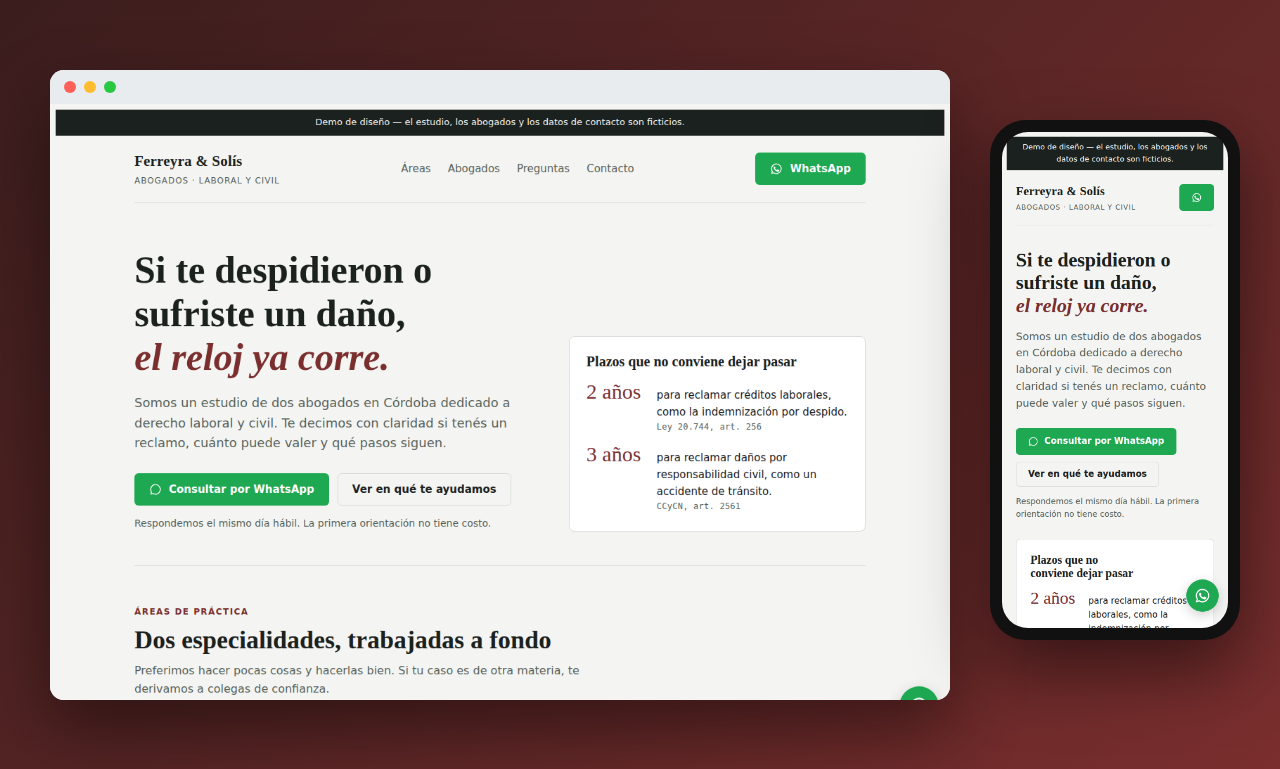
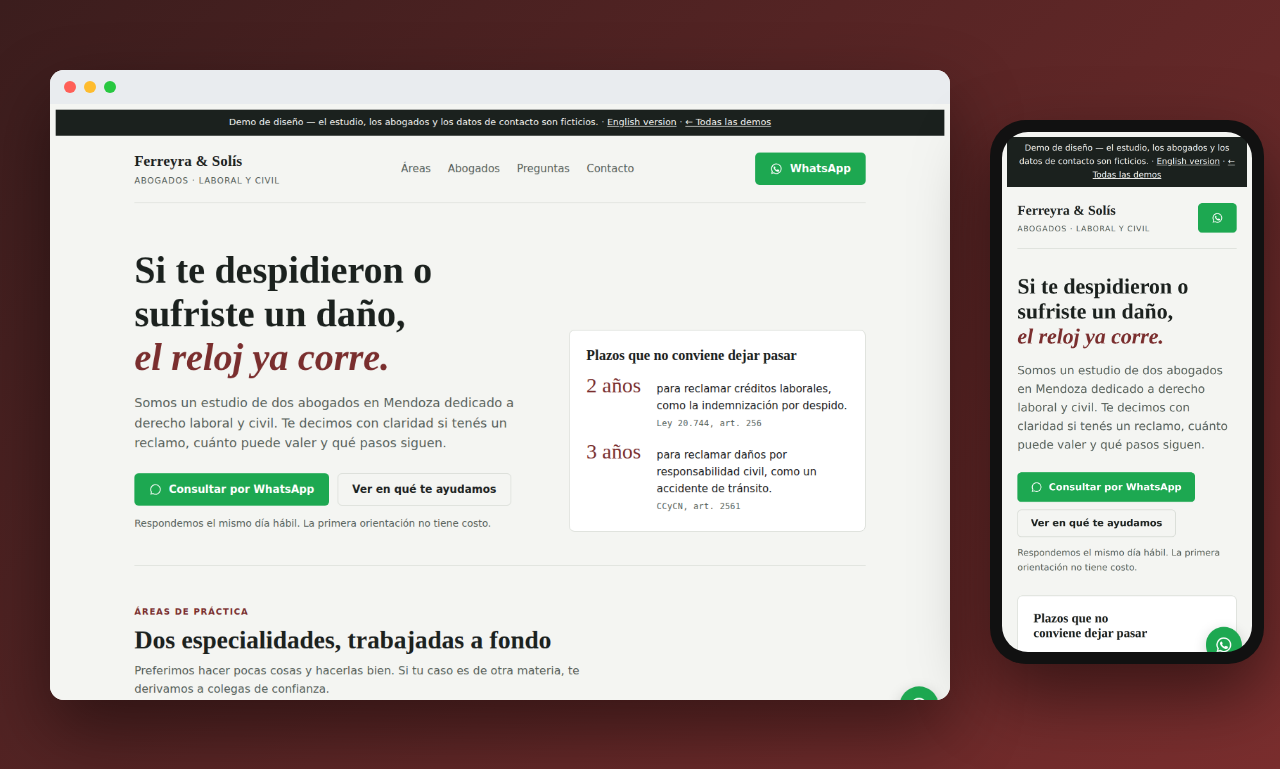
Demos ambientadas en Mendoza
Direcciones, barrios y característica telefónica (261) de Mendoza en
las landings de rubros y en la del estudio jurídico; miniaturas
regeneradas.

Claude-Session: https://claude.ai/code/session_01RYrubhUEBfZcv8MUbAGiQ9

diff --git a/abogados/index.html b/abogados/index.html
@@ -231,7 +231,7 @@ footer { padding-block: 32px 96px; border-top: 1px solid var(--line); font-size:
     <section class="hero">
       <div>
         <h1>Si te despidieron o sufriste un daño, <em>el reloj ya corre.</em></h1>
-        <p class="lede">Somos un estudio de dos abogados en Córdoba dedicado a derecho laboral y civil. Te decimos con claridad si tenés un reclamo, cuánto puede valer y qué pasos siguen.</p>
+        <p class="lede">Somos un estudio de dos abogados en Mendoza dedicado a derecho laboral y civil. Te decimos con claridad si tenés un reclamo, cuánto puede valer y qué pasos siguen.</p>
         <div class="ctas">
           <a class="btn btn-wa" href="#contacto" data-event="whatsapp_click">
             <svg viewBox="0 0 24 24" fill="currentColor" aria-hidden="true"><path d="M12 2a10 10 0 0 0-8.6 15.1L2 22l5-1.3A10 10 0 1 0 12 2Zm0 18.2a8.2 8.2 0 0 1-4.2-1.2l-.3-.2-3 .8.8-2.9-.2-.3A8.2 8.2 0 1 1 12 20.2Z"/></svg>
@@ -295,7 +295,7 @@ footer { padding-block: 32px 96px; border-top: 1px solid var(--line); font-size:
             <h3>Dra. Lucía Ferreyra</h3>
             <p class="role">Derecho laboral</p>
             <p class="bio">Doce años representando a trabajadores en despidos, accidentes y reclamos contra ART.</p>
-            <span class="cite">Mat. prof. 1-00000 · Colegio de Abogados de Córdoba</span>
+            <span class="cite">Mat. prof. 1-00000 · Colegio de Abogados de Mendoza</span>
           </div>
         </article>
         <article class="lawyer">
@@ -304,7 +304,7 @@ footer { padding-block: 32px 96px; border-top: 1px solid var(--line); font-size:
             <h3>Dr. Martín Solís</h3>
             <p class="role">Derecho civil</p>
             <p class="bio">Sucesiones, daños y contratos. Antes de litigar, busca un acuerdo que ahorre tiempo y costos.</p>
-            <span class="cite">Mat. prof. 1-00000 · Colegio de Abogados de Córdoba</span>
+            <span class="cite">Mat. prof. 1-00000 · Colegio de Abogados de Mendoza</span>
           </div>
         </article>
       </div>
@@ -337,7 +337,7 @@ footer { padding-block: 32px 96px; border-top: 1px solid var(--line); font-size:
           <p>No firmes nada que no entiendas y guardá recibos de sueldo, telegramas y mensajes. Escribinos y te decimos cómo responder.</p>
         </details>
         <details>
-          <summary>¿Atienden casos fuera de Córdoba?</summary>
+          <summary>¿Atienden casos fuera de Mendoza?</summary>
           <p>Hacemos consultas en todo el país por videollamada. Para juicios fuera de la provincia trabajamos con estudios asociados.</p>
         </details>
       </div>
@@ -357,8 +357,8 @@ footer { padding-block: 32px 96px; border-top: 1px solid var(--line); font-size:
           </div>
         </div>
         <dl class="facts">
-          <div><dt>WhatsApp</dt><dd>+54 9 351 000-0000 (ejemplo)</dd></div>
-          <div><dt>Oficina</dt><dd>Av. Ejemplo 123, piso 4 · Córdoba Capital</dd></div>
+          <div><dt>WhatsApp</dt><dd>+54 9 261 000-0000 (ejemplo)</dd></div>
+          <div><dt>Oficina</dt><dd>Av. Ejemplo 123, piso 4 · Ciudad de Mendoza</dd></div>
           <div><dt>Horario</dt><dd>Lunes a viernes, 9 a 18 h</dd></div>
         </dl>
       </div>

diff --git a/veterinaria/index.html b/veterinaria/index.html
@@ -3,7 +3,7 @@
 <meta charset="utf-8">
 <meta name="viewport" content="width=device-width, initial-scale=1">
 <title>Veterinaria Patitas del Parque</title>
-<meta name="description" content="Veterinaria en Córdoba: consultas, vacunas, cirugías y urgencias. Pedí turno por WhatsApp.">
+<meta name="description" content="Veterinaria en Mendoza: consultas, vacunas, cirugías y urgencias. Pedí turno por WhatsApp.">
 <link rel="preconnect" href="https://fonts.googleapis.com">
 <link rel="preconnect" href="https://fonts.gstatic.com" crossorigin>
 <link rel="stylesheet" href="https://fonts.googleapis.com/css2?family=Fraunces:wght@600;700&family=Inter:wght@400;500;600;700&display=swap">
@@ -18,7 +18,7 @@
 
 <div class="wrap">
   <header class="top">
-    <a class="brand" href="#inicio"><span class="logo" aria-hidden="true">🐾</span><span><b>Patitas del Parque</b><small>Veterinaria · Córdoba</small></span></a>
+    <a class="brand" href="#inicio"><span class="logo" aria-hidden="true">🐾</span><span><b>Patitas del Parque</b><small>Veterinaria · Mendoza</small></span></a>
     <nav class="links" aria-label="Secciones"><a href="#servicios">Servicios</a><a href="#vacunas">Vacunas</a><a href="#preguntas">Preguntas</a><a href="#contacto">Contacto</a></nav>
     <a class="btn btn-wa" href="#contacto" aria-label="Escribir por WhatsApp"><svg viewBox="0 0 24 24" fill="currentColor" aria-hidden="true"><path d="M12 2a10 10 0 0 0-8.6 15.1L2 22l5-1.3A10 10 0 1 0 12 2Zm0 18.2a8.2 8.2 0 0 1-4.2-1.2l-.3-.2-3 .8.8-2.9-.2-.3A8.2 8.2 0 1 1 12 20.2Zm4.5-6.1c-.2-.1-1.5-.7-1.7-.8-.2-.1-.4-.1-.6.1l-.8 1c-.1.2-.3.2-.5.1a6.7 6.7 0 0 1-3.3-2.9c-.3-.4.2-.4.7-1.3.1-.2 0-.3 0-.4l-.8-1.8c-.2-.5-.4-.4-.6-.4h-.5a1 1 0 0 0-.7.3 3 3 0 0 0-.9 2.2 5.2 5.2 0 0 0 1.1 2.7 11.8 11.8 0 0 0 4.5 4c1.7.7 2.3.8 3.2.6a2.7 2.7 0 0 0 1.8-1.3 2.2 2.2 0 0 0 .1-1.3c0-.1-.2-.2-.4-.3Z"/></svg><span>WhatsApp</span></a>
   </header>
@@ -56,8 +56,8 @@
           <div class="ctas"><a class="btn btn-wa" href="#contacto"><svg viewBox="0 0 24 24" fill="currentColor" aria-hidden="true"><path d="M12 2a10 10 0 0 0-8.6 15.1L2 22l5-1.3A10 10 0 1 0 12 2Zm0 18.2a8.2 8.2 0 0 1-4.2-1.2l-.3-.2-3 .8.8-2.9-.2-.3A8.2 8.2 0 1 1 12 20.2Zm4.5-6.1c-.2-.1-1.5-.7-1.7-.8-.2-.1-.4-.1-.6.1l-.8 1c-.1.2-.3.2-.5.1a6.7 6.7 0 0 1-3.3-2.9c-.3-.4.2-.4.7-1.3.1-.2 0-.3 0-.4l-.8-1.8c-.2-.5-.4-.4-.6-.4h-.5a1 1 0 0 0-.7.3 3 3 0 0 0-.9 2.2 5.2 5.2 0 0 0 1.1 2.7 11.8 11.8 0 0 0 4.5 4c1.7.7 2.3.8 3.2.6a2.7 2.7 0 0 0 1.8-1.3 2.2 2.2 0 0 0 .1-1.3c0-.1-.2-.2-.4-.3Z"/></svg>Escribir por WhatsApp</a></div>
         </div>
         <dl class="facts">
-          <div><dt>WhatsApp</dt><dd>+54 9 351 000-0000 (ejemplo)</dd></div>
-          <div><dt>Dirección</dt><dd>Av. Ejemplo 1234 · Córdoba Capital</dd></div>
+          <div><dt>WhatsApp</dt><dd>+54 9 261 000-0000 (ejemplo)</dd></div>
+          <div><dt>Dirección</dt><dd>Av. Ejemplo 1234 · Godoy Cruz</dd></div>
           <div><dt>Horario</dt><dd>Lunes a sábado, 9 a 20 h · Urgencias: consultar por WhatsApp</dd></div>
         </dl>
       </div>

diff --git a/estetica/index.html b/estetica/index.html
@@ -3,7 +3,7 @@
 <meta charset="utf-8">
 <meta name="viewport" content="width=device-width, initial-scale=1">
 <title>Centro de Estética Aura</title>
-<meta name="description" content="Centro de estética en Córdoba: tratamientos faciales, corporales y depilación. Packs de sesiones y turnos online.">
+<meta name="description" content="Centro de estética en Mendoza: tratamientos faciales, corporales y depilación. Packs de sesiones y turnos online.">
 <link rel="preconnect" href="https://fonts.googleapis.com">
 <link rel="preconnect" href="https://fonts.gstatic.com" crossorigin>
 <link rel="stylesheet" href="https://fonts.googleapis.com/css2?family=Cormorant+Garamond:wght@600;700&family=Inter:wght@400;500;600;700&display=swap">
@@ -56,8 +56,8 @@
           <div class="ctas"><a class="btn btn-wa" href="#contacto"><svg viewBox="0 0 24 24" fill="currentColor" aria-hidden="true"><path d="M12 2a10 10 0 0 0-8.6 15.1L2 22l5-1.3A10 10 0 1 0 12 2Zm0 18.2a8.2 8.2 0 0 1-4.2-1.2l-.3-.2-3 .8.8-2.9-.2-.3A8.2 8.2 0 1 1 12 20.2Zm4.5-6.1c-.2-.1-1.5-.7-1.7-.8-.2-.1-.4-.1-.6.1l-.8 1c-.1.2-.3.2-.5.1a6.7 6.7 0 0 1-3.3-2.9c-.3-.4.2-.4.7-1.3.1-.2 0-.3 0-.4l-.8-1.8c-.2-.5-.4-.4-.6-.4h-.5a1 1 0 0 0-.7.3 3 3 0 0 0-.9 2.2 5.2 5.2 0 0 0 1.1 2.7 11.8 11.8 0 0 0 4.5 4c1.7.7 2.3.8 3.2.6a2.7 2.7 0 0 0 1.8-1.3 2.2 2.2 0 0 0 .1-1.3c0-.1-.2-.2-.4-.3Z"/></svg>Escribir por WhatsApp</a></div>
         </div>
         <dl class="facts">
-          <div><dt>WhatsApp</dt><dd>+54 9 351 000-0000 (ejemplo)</dd></div>
-          <div><dt>Dirección</dt><dd>Bv. Ejemplo 789 · Cerro de las Rosas</dd></div>
+          <div><dt>WhatsApp</dt><dd>+54 9 261 000-0000 (ejemplo)</dd></div>
+          <div><dt>Dirección</dt><dd>Calle Ejemplo 789 · Chacras de Coria</dd></div>
           <div><dt>Horario</dt><dd>Lunes a viernes 9 a 20 h · Sábados 9 a 14 h</dd></div>
         </dl>
       </div>

diff --git a/consultorio/index.html b/consultorio/index.html
@@ -3,7 +3,7 @@
 <meta charset="utf-8">
 <meta name="viewport" content="width=device-width, initial-scale=1">
 <title>Consultorio Odontológico Dra. Paula Ríos</title>
-<meta name="description" content="Consultorio odontológico en Córdoba. Limpiezas, arreglos, ortodoncia y blanqueamiento. Pedí turno por WhatsApp.">
+<meta name="description" content="Consultorio odontológico en Mendoza. Limpiezas, arreglos, ortodoncia y blanqueamiento. Pedí turno por WhatsApp.">
 <link rel="preconnect" href="https://fonts.googleapis.com">
 <link rel="preconnect" href="https://fonts.gstatic.com" crossorigin>
 <link rel="stylesheet" href="https://fonts.googleapis.com/css2?family=DM+Serif+Display&family=Inter:wght@400;500;600;700&display=swap">
@@ -56,8 +56,8 @@
           <div class="ctas"><a class="btn btn-wa" href="#contacto"><svg viewBox="0 0 24 24" fill="currentColor" aria-hidden="true"><path d="M12 2a10 10 0 0 0-8.6 15.1L2 22l5-1.3A10 10 0 1 0 12 2Zm0 18.2a8.2 8.2 0 0 1-4.2-1.2l-.3-.2-3 .8.8-2.9-.2-.3A8.2 8.2 0 1 1 12 20.2Zm4.5-6.1c-.2-.1-1.5-.7-1.7-.8-.2-.1-.4-.1-.6.1l-.8 1c-.1.2-.3.2-.5.1a6.7 6.7 0 0 1-3.3-2.9c-.3-.4.2-.4.7-1.3.1-.2 0-.3 0-.4l-.8-1.8c-.2-.5-.4-.4-.6-.4h-.5a1 1 0 0 0-.7.3 3 3 0 0 0-.9 2.2 5.2 5.2 0 0 0 1.1 2.7 11.8 11.8 0 0 0 4.5 4c1.7.7 2.3.8 3.2.6a2.7 2.7 0 0 0 1.8-1.3 2.2 2.2 0 0 0 .1-1.3c0-.1-.2-.2-.4-.3Z"/></svg>Escribir por WhatsApp</a></div>
         </div>
         <dl class="facts">
-          <div><dt>WhatsApp</dt><dd>+54 9 351 000-0000 (ejemplo)</dd></div>
-          <div><dt>Dirección</dt><dd>Calle Ejemplo 321, 2.º piso · Centro</dd></div>
+          <div><dt>WhatsApp</dt><dd>+54 9 261 000-0000 (ejemplo)</dd></div>
+          <div><dt>Dirección</dt><dd>Calle Ejemplo 321, 2.º piso · Ciudad de Mendoza</dd></div>
           <div><dt>Horario</dt><dd>Lunes a viernes, 9 a 19 h</dd></div>
         </dl>
       </div>

diff --git a/gimnasio/index.html b/gimnasio/index.html
@@ -3,7 +3,7 @@
 <meta charset="utf-8">
 <meta name="viewport" content="width=device-width, initial-scale=1">
 <title>Gimnasio Fuerza Norte</title>
-<meta name="description" content="Gimnasio en Córdoba: musculación, funcional y clases. Planes, horarios y clase de prueba gratis.">
+<meta name="description" content="Gimnasio en Mendoza: musculación, funcional y clases. Planes, horarios y clase de prueba gratis.">
 <link rel="preconnect" href="https://fonts.googleapis.com">
 <link rel="preconnect" href="https://fonts.gstatic.com" crossorigin>
 <link rel="stylesheet" href="https://fonts.googleapis.com/css2?family=Archivo+Black&family=Inter:wght@400;500;600;700&display=swap">
@@ -56,8 +56,8 @@
           <div class="ctas"><a class="btn btn-wa" href="#contacto"><svg viewBox="0 0 24 24" fill="currentColor" aria-hidden="true"><path d="M12 2a10 10 0 0 0-8.6 15.1L2 22l5-1.3A10 10 0 1 0 12 2Zm0 18.2a8.2 8.2 0 0 1-4.2-1.2l-.3-.2-3 .8.8-2.9-.2-.3A8.2 8.2 0 1 1 12 20.2Zm4.5-6.1c-.2-.1-1.5-.7-1.7-.8-.2-.1-.4-.1-.6.1l-.8 1c-.1.2-.3.2-.5.1a6.7 6.7 0 0 1-3.3-2.9c-.3-.4.2-.4.7-1.3.1-.2 0-.3 0-.4l-.8-1.8c-.2-.5-.4-.4-.6-.4h-.5a1 1 0 0 0-.7.3 3 3 0 0 0-.9 2.2 5.2 5.2 0 0 0 1.1 2.7 11.8 11.8 0 0 0 4.5 4c1.7.7 2.3.8 3.2.6a2.7 2.7 0 0 0 1.8-1.3 2.2 2.2 0 0 0 .1-1.3c0-.1-.2-.2-.4-.3Z"/></svg>Escribir por WhatsApp</a></div>
         </div>
         <dl class="facts">
-          <div><dt>WhatsApp</dt><dd>+54 9 351 000-0000 (ejemplo)</dd></div>
-          <div><dt>Dirección</dt><dd>Av. Ejemplo 2020 · Alta Córdoba</dd></div>
+          <div><dt>WhatsApp</dt><dd>+54 9 261 000-0000 (ejemplo)</dd></div>
+          <div><dt>Dirección</dt><dd>Av. Ejemplo 2020 · Guaymallén</dd></div>
           <div><dt>Horario</dt><dd>Lunes a viernes 7 a 23 h · Sábados 9 a 14 h</dd></div>
         </dl>
       </div>

diff --git a/peluqueria/index.html b/peluqueria/index.html
@@ -3,7 +3,7 @@
 <meta charset="utf-8">
 <meta name="viewport" content="width=device-width, initial-scale=1">
 <title>Barbería Corte Fino</title>
-<meta name="description" content="Peluquería y barbería en Córdoba. Cortes, barba y color. Reservá tu turno online.">
+<meta name="description" content="Peluquería y barbería en Mendoza. Cortes, barba y color. Reservá tu turno online.">
 <link rel="preconnect" href="https://fonts.googleapis.com">
 <link rel="preconnect" href="https://fonts.gstatic.com" crossorigin>
 <link rel="stylesheet" href="https://fonts.googleapis.com/css2?family=Bebas+Neue&family=Inter:wght@400;500;600;700&display=swap">
@@ -56,8 +56,8 @@
           <div class="ctas"><a class="btn btn-wa" href="#contacto"><svg viewBox="0 0 24 24" fill="currentColor" aria-hidden="true"><path d="M12 2a10 10 0 0 0-8.6 15.1L2 22l5-1.3A10 10 0 1 0 12 2Zm0 18.2a8.2 8.2 0 0 1-4.2-1.2l-.3-.2-3 .8.8-2.9-.2-.3A8.2 8.2 0 1 1 12 20.2Zm4.5-6.1c-.2-.1-1.5-.7-1.7-.8-.2-.1-.4-.1-.6.1l-.8 1c-.1.2-.3.2-.5.1a6.7 6.7 0 0 1-3.3-2.9c-.3-.4.2-.4.7-1.3.1-.2 0-.3 0-.4l-.8-1.8c-.2-.5-.4-.4-.6-.4h-.5a1 1 0 0 0-.7.3 3 3 0 0 0-.9 2.2 5.2 5.2 0 0 0 1.1 2.7 11.8 11.8 0 0 0 4.5 4c1.7.7 2.3.8 3.2.6a2.7 2.7 0 0 0 1.8-1.3 2.2 2.2 0 0 0 .1-1.3c0-.1-.2-.2-.4-.3Z"/></svg>Escribir por WhatsApp</a></div>
         </div>
         <dl class="facts">
-          <div><dt>WhatsApp</dt><dd>+54 9 351 000-0000 (ejemplo)</dd></div>
-          <div><dt>Dirección</dt><dd>Calle Ejemplo 456 · Nueva Córdoba</dd></div>
+          <div><dt>WhatsApp</dt><dd>+54 9 261 000-0000 (ejemplo)</dd></div>
+          <div><dt>Dirección</dt><dd>Calle Ejemplo 456 · Ciudad de Mendoza</dd></div>
           <div><dt>Horario</dt><dd>Martes a sábado, 10 a 21 h</dd></div>
         </dl>
       </div>
